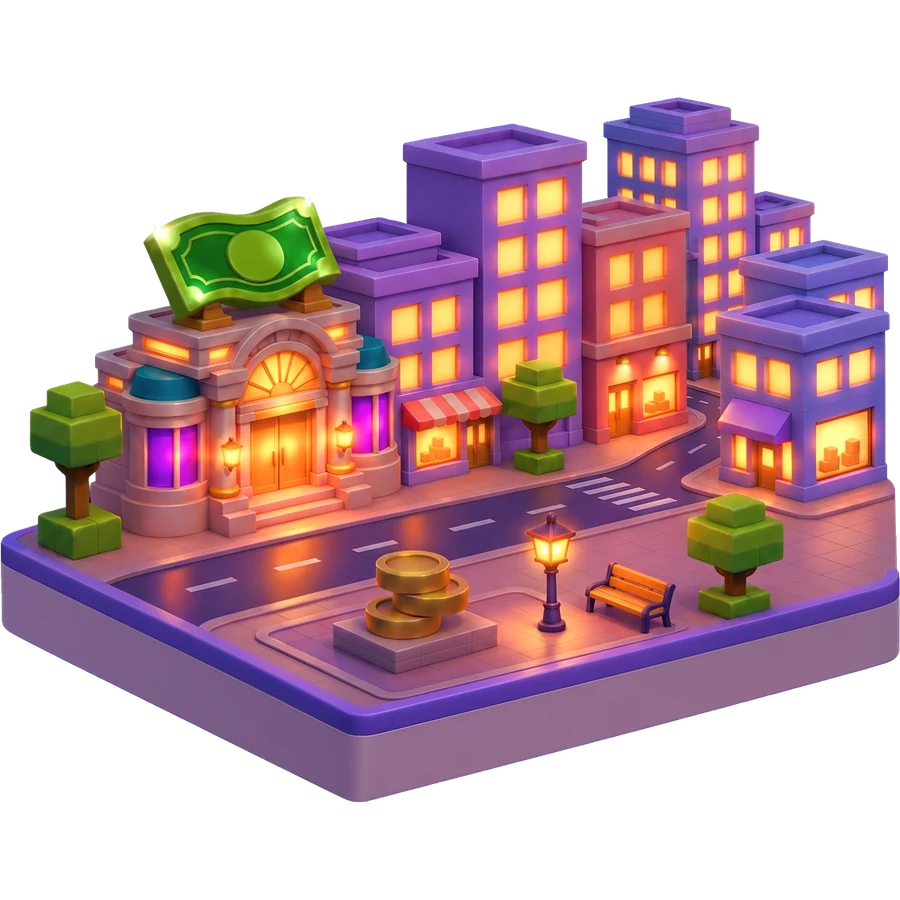
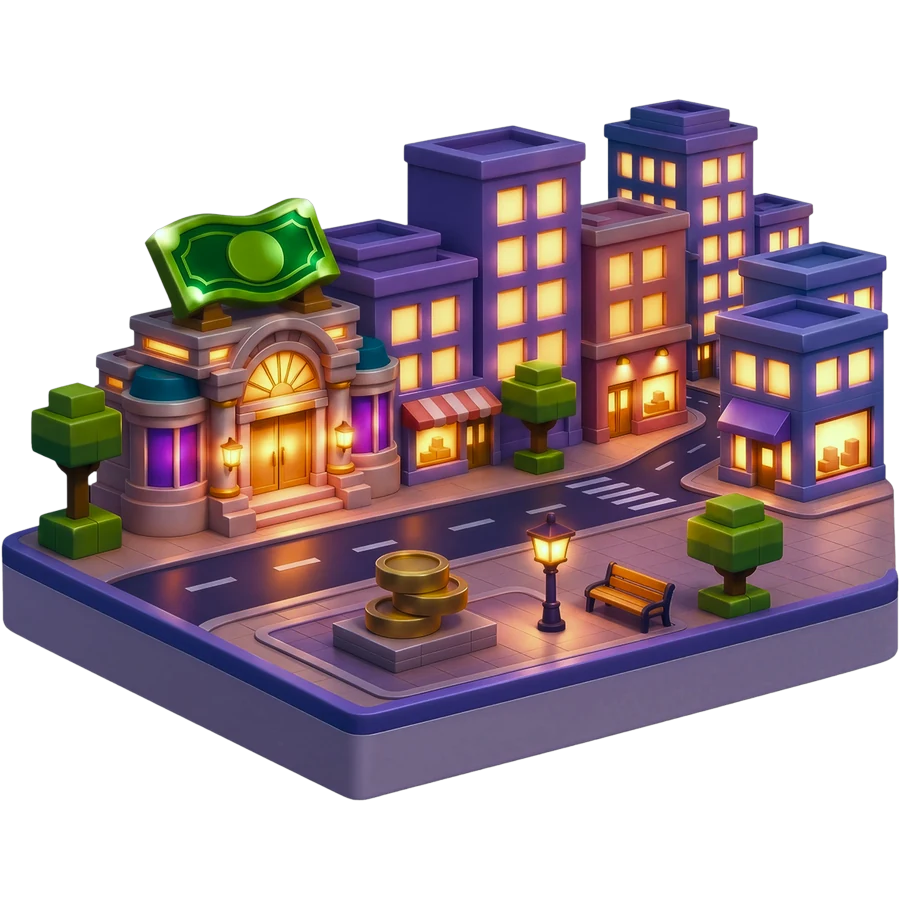
New Downtown island art and island-coloured day map
- Downtown uses the new day and night island art.
- By day, the map background takes a soft pastel from each island and fades as you swipe.
- The moon is removed from the night map.

Claude-Session: https://claude.ai/code/session_01BxChySb3qW1iKdQkZeCtDv

diff --git a/index.html b/index.html
@@ -14,7 +14,7 @@
 .mstars,.mmoon{display:none}
 .dark .mstars{display:block;position:absolute;inset:0;pointer-events:none;background-image:radial-gradient(1.6px 1.6px at 12% 18%,#fff,transparent),radial-gradient(1.2px 1.2px at 28% 8%,#fff,transparent),radial-gradient(1.8px 1.8px at 46% 22%,#fff,transparent),radial-gradient(1.2px 1.2px at 64% 12%,#fff,transparent),radial-gradient(1.6px 1.6px at 83% 26%,#fff,transparent),radial-gradient(1.2px 1.2px at 92% 9%,#fff,transparent),radial-gradient(1.4px 1.4px at 8% 40%,#fff,transparent),radial-gradient(1.2px 1.2px at 94% 44%,#fff,transparent),radial-gradient(1.4px 1.4px at 20% 78%,#fff,transparent),radial-gradient(1.2px 1.2px at 78% 82%,#fff,transparent),radial-gradient(1.6px 1.6px at 55% 90%,#fff,transparent),radial-gradient(1.2px 1.2px at 36% 64%,#fff8,transparent),radial-gradient(1.2px 1.2px at 70% 60%,#fff8,transparent);animation:mtwinkle 3.5s ease-in-out infinite alternate}
 @keyframes mtwinkle{to{opacity:.55}}
-.dark .mmoon{display:block;position:absolute;right:13%;top:calc(env(safe-area-inset-top,0px) + 150px);width:46px;height:46px;border-radius:50%;background:radial-gradient(circle at 35% 35%,#FFF8DC,#F3E3A8 60%,#D9C27A);box-shadow:0 0 30px 8px #FFF3C455;pointer-events:none}
+/* moon removed */.mmoon{display:none;position:absolute;right:13%;top:calc(env(safe-area-inset-top,0px) + 150px);width:46px;height:46px;border-radius:50%;background:radial-gradient(circle at 35% 35%,#FFF8DC,#F3E3A8 60%,#D9C27A);box-shadow:0 0 30px 8px #FFF3C455;pointer-events:none}
 .dark .mslide:not(:has(.art)){filter:brightness(.66) saturate(1.15) hue-rotate(-14deg)}
 .dark .mslide.on:not(:has(.art)){filter:brightness(.78) saturate(1.15) hue-rotate(-14deg) drop-shadow(0 0 26px #FFD86A40)}
 .dio.art .mart{width:100%;height:100%;object-fit:contain}
@@ -1105,7 +1105,7 @@ input.nm:focus{outline:none;border-color:var(--green)}
   #dealBtn{top:auto}
 }
 #mapscr{position:absolute;inset:0;z-index:60;display:flex;flex-direction:column;align-items:center;overflow:hidden;
-  background:radial-gradient(120% 70% at 50% 45%,#FBF9F4 0%,#ECE8DF 55%,#DCD7CC 100%);color:var(--ink)}
+  background:radial-gradient(120% 70% at 50% 45%,rgba(255,255,255,.6) 0%,rgba(255,255,255,0) 55%,rgba(60,40,30,.07) 100%),var(--mtint,#ECE8DF);transition:background-color .6s ease;color:var(--ink)}
 #mapscr[hidden]{display:none}
 #mapscr:before{content:'';position:absolute;left:50%;top:46%;width:900px;height:900px;margin:-450px 0 0 -450px;pointer-events:none;
   background:repeating-conic-gradient(from 0deg,rgba(255,255,255,.55) 0deg 9deg,rgba(255,255,255,0) 9deg 22.5deg);
@@ -1672,7 +1672,7 @@ function dayTick(){if(!s||(CLOCK_GUARD&&!clockChecked))return;const d=new Date(n
 /* ================= state ================= */
 // Save format: never rename SAVE_KEY. Businesses are stored by their code, not their list position,
 // so adding, removing or reordering businesses in an update keeps everyone's progress.
-/*build*/const BUILD=2026112430,MUST=2026110820;/*notes*/const NOTES=["Improvements and fixes."];
+/*build*/const BUILD=2026112431,MUST=2026110820;/*notes*/const NOTES=["Improvements and fixes."];
 let pmWant=false,pmLater=null,clockAnchor=null;let clockOff=0,clockChecked=false,clockWait=true;const OFF_CAP=2*36e5,CLOCK_GUARD=!!String((window.TRILLIONAIRE_CONFIG||{}).supabaseUrl||'').trim();
 const SAVE_KEY='trillionaire.save',OLD_KEYS=['mogul.tycoon.v3'],SAVE_VER=4,now=()=>{let d=CLOCK_GUARD&&clockChecked&&clockAnchor?clockAnchor.srv+(performance.now()-clockAnchor.perf):Date.now()+clockOff;if(s){
  if(CLOCK_GUARD){if(!(s.verT>0))s.verT=Math.min(d,Math.max(s.last||0,s.savedAt||0)||d);if(clockChecked){if(d>s.verT)s.verT=d}else if(!s.pm){const lim=s.verT+(clockWait?0:OFF_CAP);if(d>lim){d=lim;if(!clockWait)pmWant=true}}}
@@ -4605,6 +4605,8 @@ let mapIdx=0;
 const dn=(day,night,cls='',alt='')=>`<img class="${cls}" src="${darkOn?night:day}" data-day="${day}" data-night="${night}" alt="${alt}" draggable="false">`;
 // painted world art for the map: add a world's id here once img/map/<id>.webp and img/map/<id>-n.webp are uploaded
 const MAP_ART={downtown:1,bullion:1,canyon:1};
+// daytime map background: a soft pastel taken from each island's art (Downtown's purple buildings, Bullion Bay's water, Diamond Canyon's rock)
+const MAP_TINT={downtown:'#E3D6EB',bullion:'#D0F1F1',canyon:'#F1D7D0'};
 function travel(w){if(!worldOpen(w))return;plotSel=null;const o=cur();s.wlast=s.wlast||{};if(o)s.wlast[s.world|0]=o.bid;s.world=w;s.wseen=Math.max(s.wseen|0,w);
  const want=s.wlast[w];let i=s.owned.findIndex(x=>x.bid===want);if(i<0)i=s.owned.findIndex(x=>B[x.bid].w===w&&!isGood(x));if(i<0)i=s.owned.findIndex(x=>B[x.bid].w===w);if(i>=0)s.cur=i;
  paintCity(w);stageSig='';closeMap();closeOv();vib(15);save();upd();if(w)toast(`Welcome to ${WN[w]}`,'good')}
@@ -4616,7 +4618,7 @@ function worldState(w,i){const n=nw(),bs=B.filter(b=>b.w===i),own=s.owned.filter
  if(worldOpen(i))return{here:i===(s.world|0),open:1,label:`${own}/${bs.length} businesses`,pct:own/bs.length};
  return{locked:1,label:`$${money(n)} / $${money(w.need)}`,pct:Math.min(1,n/w.need)}}
 function openMap(){mapIdx=s.world|0;let el=$('mapscr');if(!el){el=document.createElement('div');el.id='mapscr';$('app').appendChild(el)}
- el.innerHTML=`<div class="mstars" aria-hidden="true"></div><div class="mmoon" aria-hidden="true"></div><button class="mback" data-act="mapclose" aria-label="Back to the game"><svg viewBox="0 0 24 24"><path d="M15 5l-7 7 7 7"/></svg></button>
+ el.innerHTML=`<div class="mstars" aria-hidden="true"></div><button class="mback" data-act="mapclose" aria-label="Back to the game"><svg viewBox="0 0 24 24"><path d="M15 5l-7 7 7 7"/></svg></button>
  <div class="mhead"><h2 id="mName"></h2><div class="mbar" id="mBar"><i></i><span></span></div></div>
  <div class="mtrack" id="mTrack"><div class="mrail" id="mRail">${WORLDS.map((w,i)=>{const lk=!!worldState(w,i).locked;return`<div class="mslide${lk?' locked':''}" data-i="${i}"><div class="dio${MAP_ART[w.id]?' art':''}">${MAP_ART[w.id]?dn(`img/map/${w.id}.webp`,`img/map/${w.id}-n.webp`,'mart'):worldLand(w,lk)}</div>${lk?`<div class="mlock">${LOCKSVG}</div>`:''}</div>`}).join('')}</div></div>
  <button class="marrow l" data-act="mapprev" aria-label="Previous world"><svg viewBox="0 0 24 24"><path d="M15 5l-7 7 7 7"/></svg></button><button class="marrow r" data-act="mapnext" aria-label="Next world"><svg viewBox="0 0 24 24"><path d="M9 5l7 7-7 7"/></svg></button>
@@ -4641,7 +4643,7 @@ function mapDrag(tr){let id=null,x0=0,y0=0,t0=0,base=0,dir=0,lx=0,lt=0,v=0;
  const end=e=>{if(e.pointerId!==id)return;id=null;if(dir<1)return;tr.classList.remove('drag');const d=mapX-base;let i=mapIdx;
   if(d<-mapW*.22||(v<-.45&&d<-12))i++;else if(d>mapW*.22||(v>.45&&d>12))i--;mapGoTo(i)};
  tr.addEventListener('pointerup',end);tr.addEventListener('pointercancel',end)}
-function mapShow(){const w=WORLDS[mapIdx],st=worldState(w,mapIdx);{const t=$('mName');t.textContent=w.name;t.style.fontSize=w.name.length>15?'28px':w.name.length>11?'33px':''}
+function mapShow(){const w=WORLDS[mapIdx],st=worldState(w,mapIdx);{const ms=$('mapscr');if(ms)ms.style.setProperty('--mtint',MAP_TINT[w.id]||'#ECE8DF')}{const t=$('mName');t.textContent=w.name;t.style.fontSize=w.name.length>15?'28px':w.name.length>11?'33px':''}
  const bar=$('mBar');bar.classList.toggle('lock',!st.here);bar.querySelector('i').style.width=(st.pct*100).toFixed(1)+'%';bar.querySelector('span').textContent=st.label;
  [...$('mRail').children].forEach((d,i)=>d.classList.toggle('on',i===mapIdx));[...$('mDots').children].forEach((d,i)=>d.classList.toggle('on',i===mapIdx));
  const g=$('mGo');g.className='mgo'+(st.here?' here':st.open?'':' locked');g.innerHTML=st.here?'YOU\'RE HERE<small>Tap to play</small>':st.open?'TRAVEL<small>Go to '+w.name+'</small>':`${LOCKSVG.replace('<svg','<svg style="width:20px;height:20px;stroke:#14191A;fill:none;stroke-width:2.6"')} LOCKED<small>${w.need===1e12?'Become a Trillionaire':'Reach $'+money(w.need)+' net worth'}</small>`}
